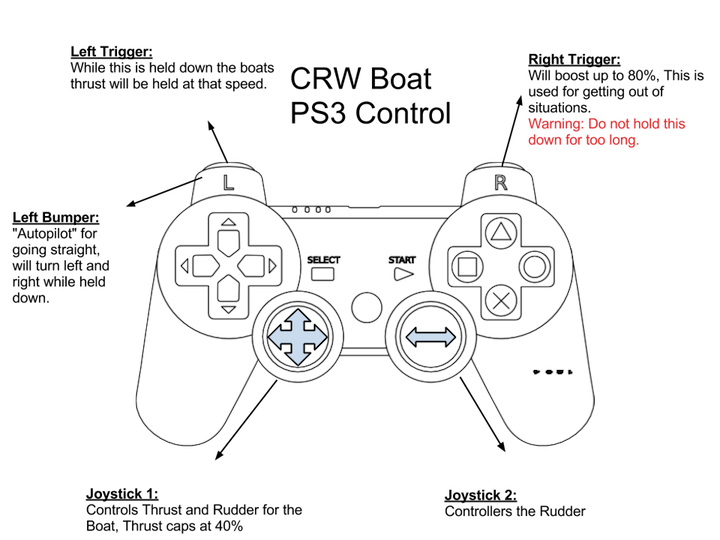
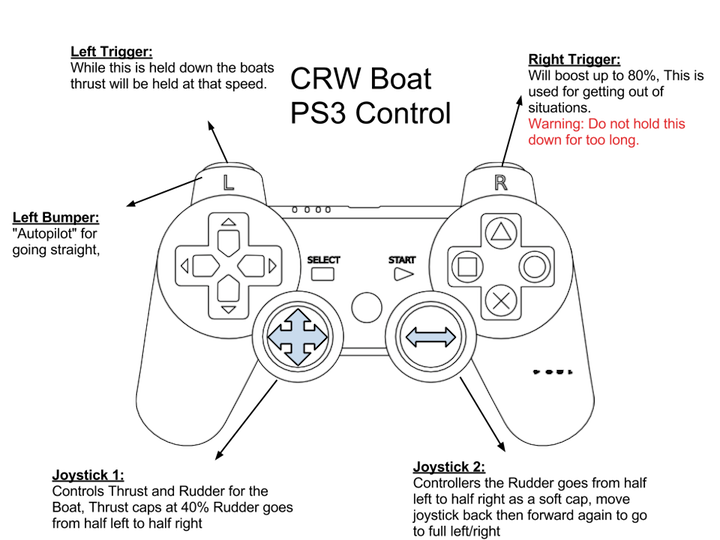
adding more controls and fixing stuttering
1) joystick 1 now only goes from 25 - 75% for rudder
2) joystick 2 will go from 25-75 but as a softcap will go slower after
that
3) fixed the image (still has an issue that i forgot to change, will do
later)

Changed region(s): [[0.0611, 0.8593, 0.4278, 1.0], [0.55, 0.8593, 0.9167, 1.0], [0.0, 0.4741, 0.1528, 0.563]]

diff --git a/client/trunk/src/edu/cmu/ri/airboat/client/gui/DrivePanel.java b/client/trunk/src/edu/cmu/ri/airboat/client/gui/DrivePanel.java
@@ -496,63 +496,73 @@ public class DrivePanel extends AbstractAirboatPanel {
                                 controllerMode = true;
                             }
                         }
-                        /*
-                        if (Controllers.returnJ1Y() > .3) { //y ais is flippsedÏ
-                            jThrust.setValue(jThrust.getValue() - 1);
-                            System.out.println("going dowwwwn");
-                            controllerMode = true;
-                        }
-                         * 
-                         */
                     }
                     if (straight == false) {
                         
                         //joystick 1
-                        if (Controllers.returnJ1X() < -.7) { //y ais is flippsed
-                            currentJoystick = true;
-                            jRudder.setValue(jRudder.getValue() - 5);
-                        }
-                        if (Controllers.returnJ1X() > .7 ) { //y ais is flippsed
-                            currentJoystick = true;
-                            jRudder.setValue(jRudder.getValue() + 5);
-                        }
-                        //joystick 2
-                            if (Controllers.returnJ2X() < -.7)
+                           if (Controllers.returnJ1X() < -.7)
                             { //y ais is flippsed
-                                currentJoystick = false;
+                                controllerMode = true;
+                                currentJoystick = true;
                                 if (jRudder.getValue() > 25)
                                 {
                                     jRudder.setValue(jRudder.getValue() - 5);
                                 }
                             }
-                            if (Controllers.returnJ2X() > .7) { //y ais is flippsed
-                                currentJoystick = false;
+                            if (Controllers.returnJ1X() > .7) { //y ais is flippsed
+                                controllerMode = true;
+                                currentJoystick = true;
                                 if (jRudder.getValue() < 75)
                                 {
                                     jRudder.setValue(jRudder.getValue() + 5);
                                 }
                             }
+
+                        //joystick 2
+                            if (Controllers.returnJ2X() < -.7) { //y ais is flippsed
+                                controllerMode = true;
+                                currentJoystick = false;
+                                    if (jRudder.getValue() > 00)
+                                    {
+                                        if (jRudder.getValue() > 25)
+                                        {
+                                            jRudder.setValue(jRudder.getValue() - 5);
+                                        }
+
+                                        if (jRudder.getValue() < 25)
+                                        {
+                                            jRudder.setValue(jRudder.getValue() - 2);
+                                        }
+                                    }
+                                
+                            }
+                            if (Controllers.returnJ2X() > .7) { //y ais is flippsed
+                                controllerMode = true;
+                                currentJoystick = false;
+                                if (jRudder.getValue() > 00)
+                                {
+                                    if (jRudder.getValue() < 75)
+                                    {
+                                        jRudder.setValue(jRudder.getValue() + 5);
+                                    }
+                                    if (jRudder.getValue() > 75)
+                                    {
+                                        jRudder.setValue(jRudder.getValue() + 2);
+                                    }
+                                }
+                            }
                         }
                     //////////////////////////////////////////////////////////////
                     if (controllerMode) {
-                        if (overdriveMode == true)
-                        {
-                            System.out.println("overdrive on");
-                        }
-                        else
-                        {
-                            System.out.println("overdrive off");
-                        }
+                        
                         if (controllerMode == true)
                         //resets thrust for when no input is given
-                        {
                         if (!Controllers.isLeftTriggerPressed()) {
                             if ((Controllers.returnJ1Y() < .3) && (Controllers.returnJ1Y() > -.3) && overdriveMode == false){
                                 if (jThrust.getValue() != 0) {
                                     jThrust.setValue(jThrust.getValue() - 1);
                                 }
                             }
-                        }
                         }
                         if (currentJoystick == true)
                         {
@@ -582,25 +592,6 @@ public class DrivePanel extends AbstractAirboatPanel {
                                 }
                             }
                         }
-                        //resets the rudder when no input is given for joysticks
-                        /*
-                        if ((Controllers.returnJ1X() < .3) && (Controllers.returnJ1X() > -.3) || (Controllers.returnJ2X() > .3) && (Controllers.returnJ2X() < -.3)) {
-                            if (straight == false) {
-
-                                if (jRudder.getValue() != 50) {
-                                    if (jRudder.getValue() > 50) {
-                                        jRudder.setValue(jRudder.getValue() - 1);
-                                    }
-                                    if (jRudder.getValue() < 50) {
-                                        jRudder.setValue(jRudder.getValue() + 1);
-                                    }
-                                }
-                                 * original code
-                          
-                            }
-                        }
-                         * 
-                         */
                     }
                 }
             }).start();
